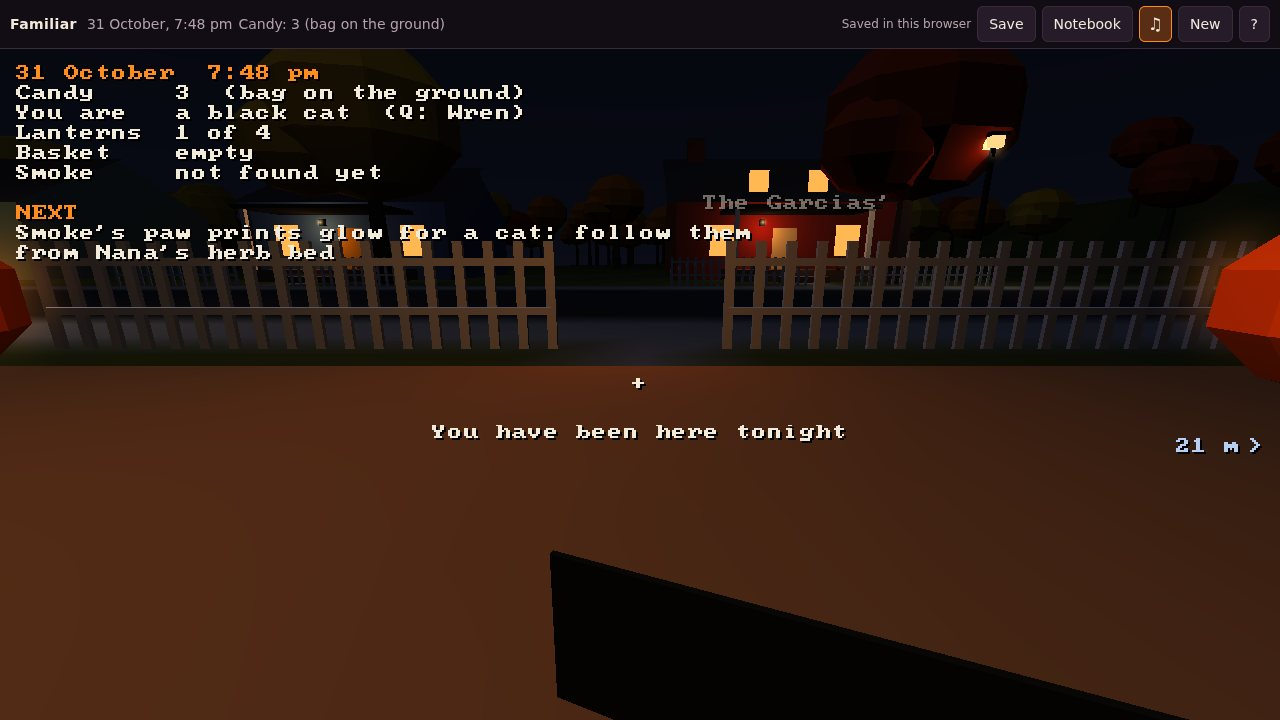
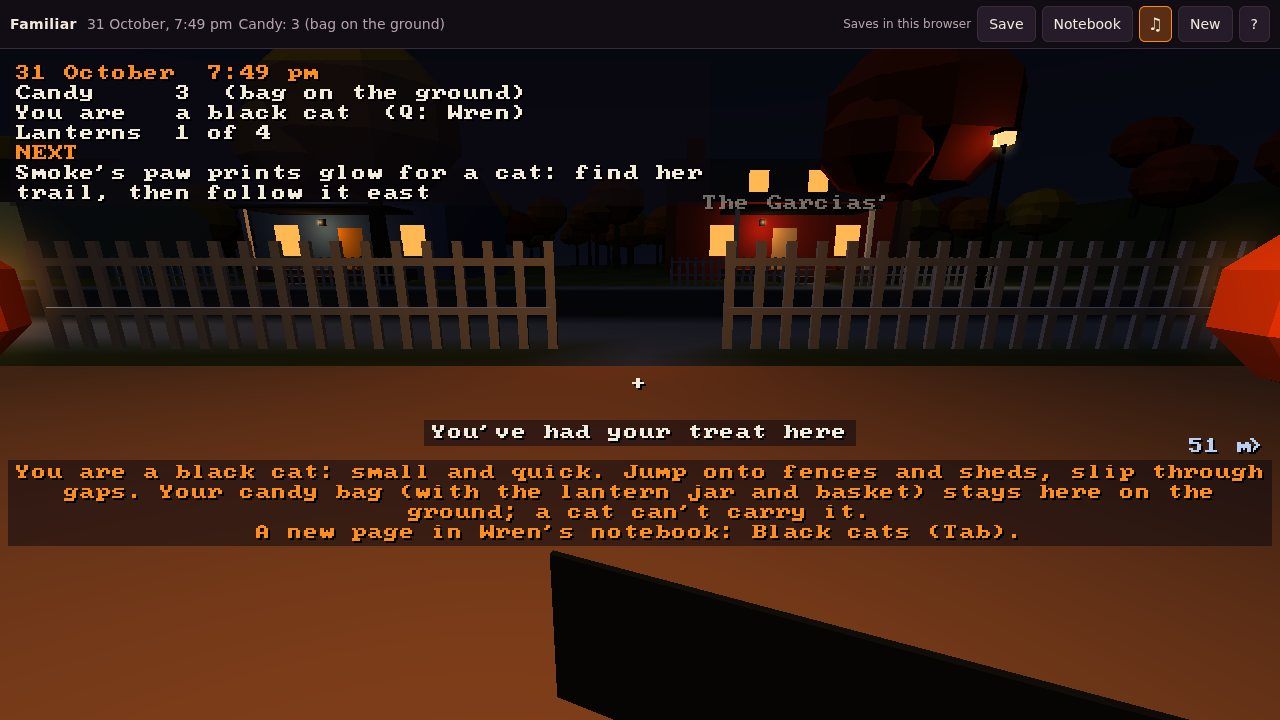
docs: re-take the screenshots for the contextual HUD, NEXT marker, lantern jar and bag glow
Every image that shows the HUD, the NEXT marker, a lantern or the bag is
re-taken from main (f783661) with tools/capture-docs.sh, under the same
file names. The notebook's alt text now says each page ends with its
sources, as the merged notebook shows them, and the HUD shot's caption
says the HUD shows only what matters now.

Claude-Session: https://claude.ai/code/session_01LYNeumkhK77Gfd5Q4LSkgc

diff --git a/RESEARCH.md b/RESEARCH.md
@@ -364,7 +364,7 @@ the rules above (and for the practitioner reviewer).
 
 | | |
 |---|---|
-| ![The How to play dialog, with its line that the cat and the spirits are the game's fairy tale, not something Wiccans believe or do](docs/images/how-to-play.jpg) | ![Wren's notebook open on its Samhain and Guising pages, with source keys](docs/images/notebook.jpg) |
+| ![The How to play dialog, with its line that the cat and the spirits are the game's fairy tale, not something Wiccans believe or do](docs/images/how-to-play.jpg) | ![Wren's notebook open on its Samhain and Guising pages, each ending with its sources in RESEARCH.md](docs/images/notebook.jpg) |
 | *Do 5: How to play labels the cat and the spirits as the game's fairy tale before the night starts.* | *Do 6 and Don't 3: the notebook's Samhain page separates history, today's practice and the game's invention, with sources; Guising is credited to Scotland and Ireland.* |
 | ![Nana's window lantern lit, her thanks in the message line](docs/images/lantern.jpg) | ![Night at the stone circle on Lantern Hill, Nana's words for the offering in the message line](docs/images/tour-offering.jpg) |
 | *Do 7: a family lantern lit for Nana's mother, Ada; Nana's thanks, no comic payoff.* | *Do 2 and Don't 4: the offering in Nana's own (original) words, "Harm none": apple, cider and a candle.* |

diff --git a/CONCEPT.md b/CONCEPT.md
@@ -197,7 +197,7 @@ Year, the Rede, why lanterns go in windows, guising, why a turnip came before th
 black cat in folklore, and the secrets. The pages about real belief and history cite their sources
 and say where the game invents.
 
-![Wren's notebook open on its Samhain and Guising pages, with source keys like [S1]](docs/images/notebook.jpg)
+![Wren's notebook open on its Samhain and Guising pages, each ending with its sources in RESEARCH.md](docs/images/notebook.jpg)
 
 *The notebook's Samhain page: history, today's practice, and where the game invents, with sources.*
 
